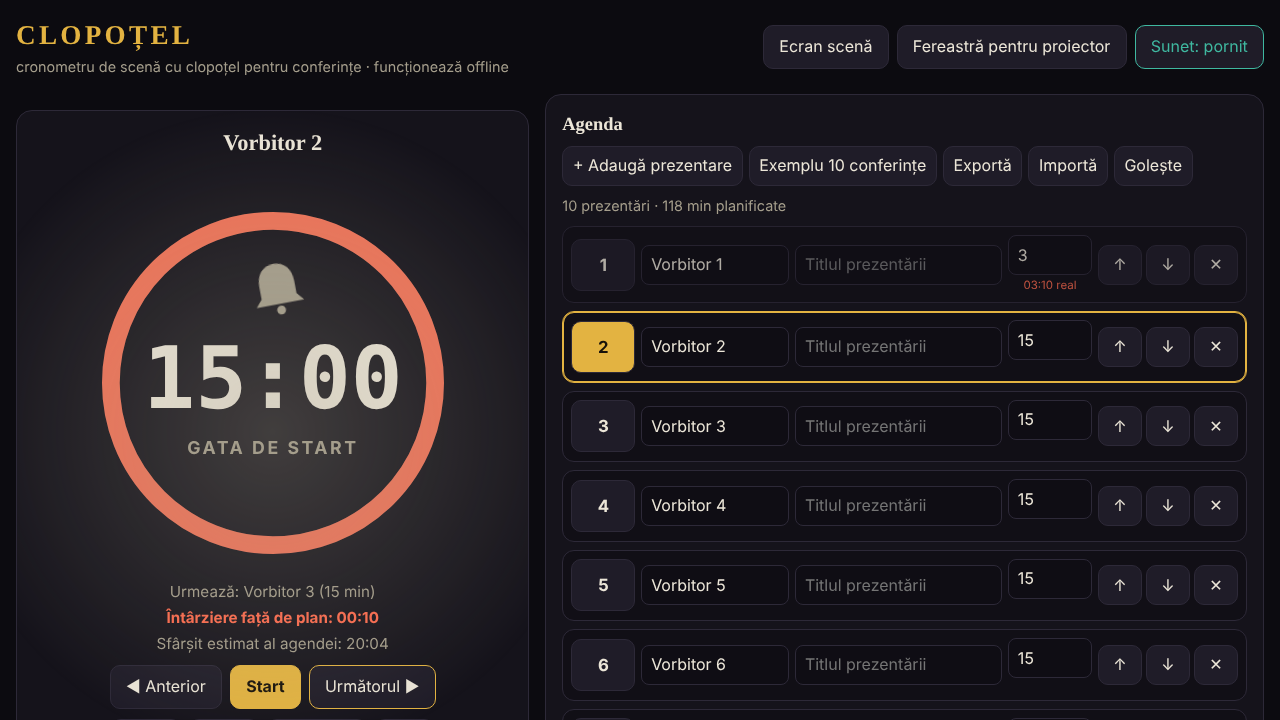
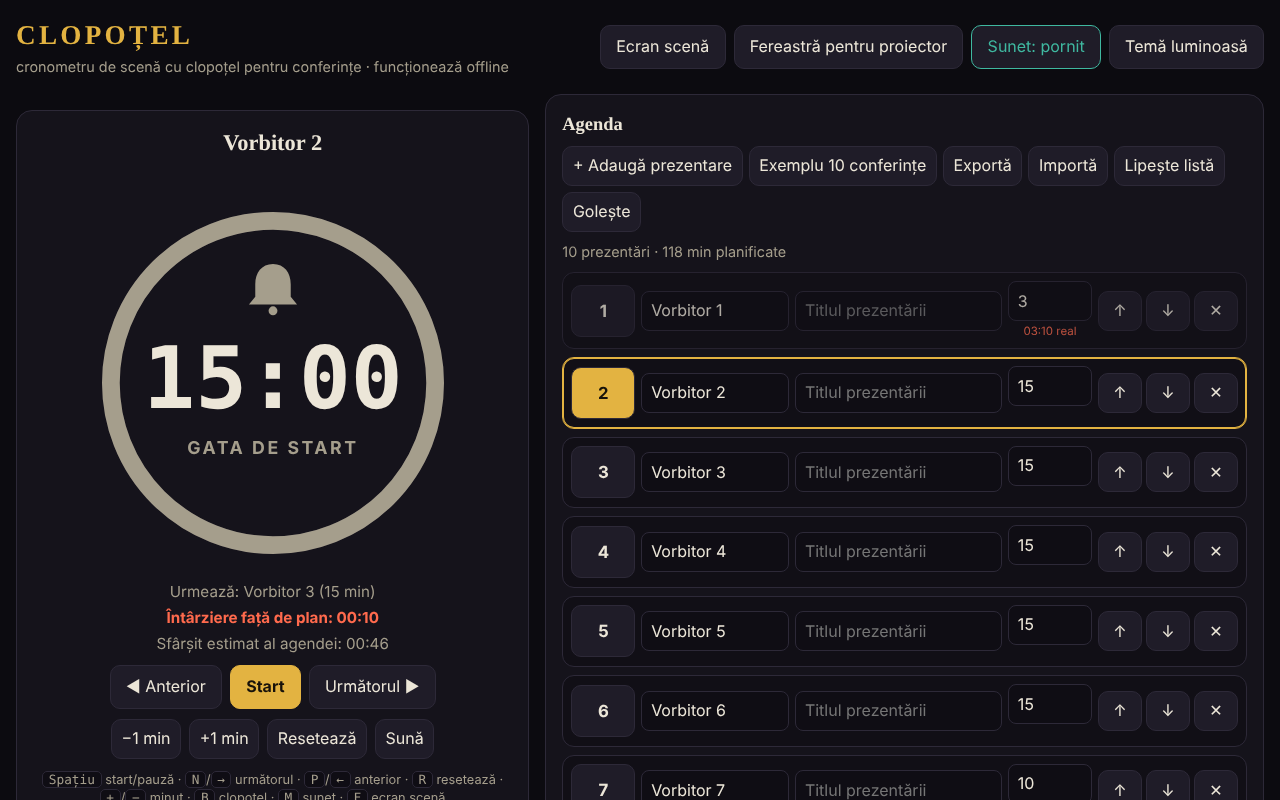
Runda 6 (11 octombrie 2026): reparații și îmbunătățiri
Claude-Session: https://claude.ai/code/session_01D2sCEb3hy3nutYexhUfQFs

diff --git a/index.html b/index.html
@@ -3,11 +3,12 @@
 <head>
 <meta charset="utf-8">
 <meta name="viewport" content="width=device-width,initial-scale=1">
-<meta http-equiv="Content-Security-Policy" content="default-src 'none'; script-src 'sha256-g+Har/yzB6hJjt88SDHgzJDg+ko0VFL84h/18yJO4B0='; style-src 'unsafe-inline'; img-src data:; media-src data: blob:; worker-src blob:; base-uri 'none'; form-action 'none'">
+<meta http-equiv="Content-Security-Policy" content="default-src 'none'; script-src 'sha256-KPVcteRl2s/AOAYdNTiBtFyDzYn+tHQ99XZXcOl1DRI='; style-src 'unsafe-inline'; img-src data:; media-src data: blob:; worker-src blob:; base-uri 'none'; form-action 'none'">
 <meta name="theme-color" content="#0c0b10">
 <title>CLOPOȚEL — cronometru de scenă</title>
 <style>
-:root{--bg:#0c0b10;--panel:#15131b;--line:#2d2938;--ink:#ece6d8;--mute:#a59e8c;--gold:#e3b341;--ver:#3fb8a0;--ember:#ff6a4d;--c:var(--mute)}
+:root{--bg:#0c0b10;--panel:#15131b;--line:#2d2938;--ink:#ece6d8;--mute:#a59e8c;--gold:#e3b341;--ver:#3fb8a0;--ember:#ff6a4d;--c:var(--mute);--btn:#1f1c28;--rowbg:#110f16;--inp:#0f0d14;--track:#2a2631;--ong:#17120a;--ong2:#3a2f10}
+:root[data-theme=light]{--bg:#f6f3ec;--panel:#fff;--line:#c4bcaa;--ink:#1d1a14;--mute:#5b5546;--gold:#8a5a00;--ver:#0b6b57;--ember:#b3261e;--btn:#ece7da;--rowbg:#faf8f2;--inp:#fff;--track:#ddd6c6;--ong:#fff;--ong2:#f3e6c8}
 *{box-sizing:border-box}
 html,body{margin:0;background:var(--bg);color:var(--ink);font:16px/1.45 system-ui,-apple-system,"Segoe UI",Roboto,sans-serif}
 body{min-height:100vh;padding:16px}
@@ -20,14 +21,14 @@ h2{font-size:1.15rem}
 main{display:grid;gap:16px;max-width:1280px;margin:0 auto}
 @media(min-width:960px){main{grid-template-columns:minmax(380px,5fr) 7fr;align-items:start}.timer{position:sticky;top:16px}}
 .card{background:var(--panel);border:1px solid var(--line);border-radius:16px;padding:16px}
-.btn{min-height:44px;min-width:44px;padding:.5rem .95rem;border:1px solid var(--line);background:#1f1c28;color:var(--ink);border-radius:10px;font:inherit;cursor:pointer}
+.btn{min-height:44px;min-width:44px;padding:.5rem .95rem;border:1px solid var(--line);background:var(--btn);color:var(--ink);border-radius:10px;font:inherit;cursor:pointer}
 .btn:hover{border-color:var(--gold)}
 .btn:focus-visible,input:focus-visible,summary:focus-visible{outline:3px solid var(--gold);outline-offset:2px}
-.btn.primary{background:var(--gold);color:#17120a;font-weight:700;border-color:var(--gold)}
+.btn.primary{background:var(--gold);color:var(--ong);font-weight:700;border-color:var(--gold)}
 .btn.small{min-height:40px;padding:.3rem .6rem}
 .btn[aria-pressed=true]{border-color:var(--ver);color:var(--ver)}
 .btn:disabled{opacity:.45;cursor:not-allowed}
-input[type=text],input[type=number],input[type=time]{min-height:40px;width:100%;background:#0f0d14;color:var(--ink);border:1px solid var(--line);border-radius:8px;padding:.35rem .55rem;font:inherit}
+input[type=text],input[type=number],input[type=time]{min-height:40px;width:100%;background:var(--inp);color:var(--ink);border:1px solid var(--line);border-radius:8px;padding:.35rem .55rem;font:inherit}
 input[type=range]{width:100%}
 label{font-size:.9rem;color:var(--mute)}
 
@@ -51,13 +52,21 @@ label{font-size:.9rem;color:var(--mute)}
 .timer[data-phase=over] .arc{animation:pu 1.4s ease-in-out infinite}
 @keyframes pu{50%{opacity:.55}}
 #lab{fill:var(--c);font-weight:700}
+.track{stroke:var(--track)}
+#t{fill:var(--ink)}
 .digits{font-family:ui-monospace,"SF Mono",Menlo,Consolas,monospace;font-variant-numeric:tabular-nums;font-weight:700}
 .meta{display:grid;gap:4px;margin:8px 0;color:var(--mute);font-size:.95rem}
 .meta b{color:var(--ink)}
 .late{color:var(--ember);font-weight:700}.early{color:var(--ver);font-weight:700}
 .ctrl{display:flex;flex-wrap:wrap;gap:8px;justify-content:center;margin-top:10px}
 .keys{margin:12px 0 0;color:var(--mute);font-size:.8rem}
-kbd{background:#0f0d14;border:1px solid var(--line);border-radius:5px;padding:0 .35rem;font-family:ui-monospace,Menlo,monospace}
+kbd{background:var(--inp);border:1px solid var(--line);border-radius:5px;padding:0 .35rem;font-family:ui-monospace,Menlo,monospace}
+#pasteBox{margin:0 0 10px;padding:10px;border:1px solid var(--line);border-radius:12px;background:var(--rowbg)}
+#pasteBox[hidden]{display:none}
+#pasteBox textarea{width:100%;min-height:120px;background:var(--inp);color:var(--ink);border:1px solid var(--line);border-radius:8px;padding:.5rem;font:inherit;font-family:ui-monospace,Menlo,Consolas,monospace;font-size:.9rem}
+#pasteBox textarea:focus-visible{outline:3px solid var(--gold);outline-offset:2px}
+#pasteBox p{margin:.3rem 0;color:var(--mute);font-size:.85rem}
+#pasteMsg{color:var(--ink)!important}
 #audioHint{display:none;margin-top:10px;padding:.5rem .7rem;border:1px solid var(--gold);border-radius:10px;color:var(--gold);font-size:.9rem}
 
 /* agendă */
@@ -65,13 +74,13 @@ kbd{background:#0f0d14;border:1px solid var(--line);border-radius:5px;padding:0 
 .atools{display:flex;flex-wrap:wrap;gap:6px}
 #sum{color:var(--mute);font-size:.9rem;margin:0 0 10px}
 #rows{list-style:none;margin:0;padding:0;display:grid;gap:8px}
-.row{display:grid;grid-template-columns:64px minmax(0,1fr) minmax(0,1.4fr) 84px auto;gap:6px;align-items:center;padding:8px;border:1px solid var(--line);border-radius:12px;background:#110f16}
+.row{display:grid;grid-template-columns:64px minmax(0,1fr) minmax(0,1.4fr) 84px auto;gap:6px;align-items:center;padding:8px;border:1px solid var(--line);border-radius:12px;background:var(--rowbg)}
 .row.current{border-color:var(--gold);box-shadow:0 0 0 1px var(--gold) inset}
 .row.done{opacity:.72}
-.sel{display:flex;flex-direction:column;align-items:center;justify-content:center;min-height:52px;padding:2px;border:1px solid var(--line);border-radius:10px;background:#1f1c28;color:var(--ink);cursor:pointer;font:inherit}
+.sel{display:flex;flex-direction:column;align-items:center;justify-content:center;min-height:52px;padding:2px;border:1px solid var(--line);border-radius:10px;background:var(--btn);color:var(--ink);cursor:pointer;font:inherit}
 .sel b{font-size:1.05rem}.sel small{color:var(--mute);font-size:.72rem}
 .sel:hover{border-color:var(--gold)}.sel:focus-visible{outline:3px solid var(--gold);outline-offset:2px}
-.row.current .sel{background:var(--gold);color:#17120a}.row.current .sel small{color:#3a2f10}
+.row.current .sel{background:var(--gold);color:var(--ong)}.row.current .sel small{color:var(--ong2)}
 .cm{display:flex;flex-direction:column;gap:2px}
 .res{font-size:.72rem;color:var(--mute);text-align:center;min-height:1em}
 .res.over{color:var(--ember)}
@@ -96,6 +105,12 @@ body.stagemode #what{font-size:clamp(1rem,3vmin,2rem)}
 body.stagemode .dial{width:min(94vw,64vh);margin:0 auto}
 body.stagemode .meta{font-size:clamp(1rem,2.6vmin,1.6rem)}
 body.display .ctrl .hide-d{display:none}
+@media print{
+ :root{--bg:#fff;--panel:#fff;--line:#999;--ink:#000;--mute:#333;--gold:#000;--btn:#fff;--rowbg:#fff;--inp:#fff;--ong:#000;--ong2:#000}
+ body{padding:0}.tools,.timer,details.card,footer,.atools,.racts,#pasteBox,.keys{display:none!important}
+ main{display:block}.card{border:0;padding:0}.row{break-inside:avoid;grid-template-columns:56px minmax(0,1fr) minmax(0,1.4fr) 60px}
+ .row input{border:0;background:transparent;padding:0}.sel{border:0;background:transparent}.row.current{box-shadow:none;border-color:#999}
+}
 @media(prefers-reduced-motion:reduce){.timer.flash::after{animation:none;opacity:.2}.bell.swing{animation:none}.timer[data-phase=over] .arc{animation:none}.arc{transition:none}}
 </style>
 </head>
@@ -110,6 +125,7 @@ body.display .ctrl .hide-d{display:none}
   <button class="btn" id="btnStage" type="button">Ecran scenă</button>
   <button class="btn" id="btnPopup" type="button">Fereastră pentru proiector</button>
   <button class="btn" id="btnSound" type="button" aria-pressed="true">Sunet: pornit</button>
+  <button class="btn" id="btnTheme" type="button">Temă luminoasă</button>
  </div>
 </header>
 
@@ -117,10 +133,10 @@ body.display .ctrl .hide-d{display:none}
  <section class="card timer" id="stage" data-phase="idle" aria-label="Cronometru">
   <div class="who"><div id="who">—</div><div id="what"></div></div>
   <svg id="dial" class="dial" viewBox="0 0 300 300" role="img" aria-label="Cadran">
-   <circle cx="150" cy="150" r="128" fill="none" stroke="#2a2631" stroke-width="14"/>
+   <circle cx="150" cy="150" r="128" fill="none" class="track" stroke-width="14"/>
    <circle id="arc" class="arc" cx="150" cy="150" r="128" fill="none" stroke-width="14" stroke-linecap="round" transform="rotate(-90 150 150)" stroke-dasharray="804.25" stroke-dashoffset="0"/>
    <g transform="translate(150 72)"><g id="bell" class="bell"><path d="M0-16c-9 0-14 7-14 16v10l-5 6h38l-5-6V0c0-9-5-16-14-16z"/><circle cx="0" cy="21" r="3.5"/></g></g>
-   <text id="t" class="digits" x="150" y="170" text-anchor="middle" font-size="68" fill="#ece6d8">00:00</text>
+   <text id="t" class="digits" x="150" y="170" text-anchor="middle" font-size="68">00:00</text>
    <text id="lab" x="150" y="206" text-anchor="middle" font-size="14" letter-spacing="2">GATA DE START</text>
   </svg>
   <div class="meta">
@@ -152,9 +168,16 @@ body.display .ctrl .hide-d{display:none}
     <button class="btn small" id="aSample" type="button">Exemplu 10 conferințe</button>
     <button class="btn small" id="aExp" type="button">Exportă</button>
     <button class="btn small" id="aImp" type="button">Importă</button>
+    <button class="btn small" id="aPaste" type="button" aria-expanded="false" aria-controls="pasteBox">Lipește listă</button>
     <button class="btn small" id="aClr" type="button">Golește</button>
-    <input type="file" id="aFile" accept="application/json,.json" hidden>
+    <input type="file" id="aFile" accept="application/json,.json,.csv,.txt,text/plain,text/csv" hidden>
    </div>
+  </div>
+  <div id="pasteBox" hidden>
+   <label for="pasteTa">Lipește agenda, câte o prezentare pe rând: <code>Vorbitor | Titlu | minute</code> (separatori: <code>|</code>, <code>;</code> sau tab; titlul și minutele sunt opționale; fără minute se folosesc 10).</label>
+   <textarea id="pasteTa" spellcheck="false" placeholder="Ana Ionescu | Deschidere | 5&#10;Mihai Pop | Inteligența artificială în educație | 20&#10;Elena Dumitru 15"></textarea>
+   <div class="atools"><button class="btn small primary" id="pAdd" type="button">Adaugă la agendă</button> <button class="btn small" id="pRep" type="button">Înlocuiește agenda</button> <button class="btn small" id="pClose" type="button">Închide</button></div>
+   <p id="pasteMsg" role="status"></p>
   </div>
   <p id="sum"></p>
   <ol id="rows"></ol>
@@ -180,7 +203,7 @@ body.display .ctrl .hide-d{display:none}
 'use strict';
 const $=id=>document.getElementById(id);
 const isDisplay=location.hash==='#scena';
-const K={ag:'clopotel.agenda.v1',st:'clopotel.settings.v1',rt:'clopotel.runtime.v1',snd:'clopotel.sound.'+(isDisplay?'d':'c')};
+const K={ag:'clopotel.agenda.v1',st:'clopotel.settings.v1',rt:'clopotel.runtime.v1',snd:'clopotel.sound.'+(isDisplay?'d':'c'),th:'clopotel.theme.v1'};
 const DEF={warn:120,repeat:30,volume:0.8,auto:false,start:''};
 const clamp=(x,a,b)=>Math.min(b,Math.max(a,x));
 const pad=n=>String(n).padStart(2,'0');
@@ -408,9 +431,50 @@ function exportJson(){
   const a=document.createElement('a');a.href=URL.createObjectURL(new Blob([data],{type:'application/json'}));
   a.download='agenda-clopotel.json';document.body.appendChild(a);a.click();a.remove();setTimeout(()=>URL.revokeObjectURL(a.href),2000);
 }
+/* ---------- import din text (lipit sau fișier .csv/.txt) ---------- */
+function parseAgendaText(txt){
+  const items=[],notes=[];let skipped=0;
+  String(txt).replace(/^\uFEFF/,'').split(/\r?\n/).forEach((raw,i)=>{
+    const ln=raw.trim();if(!ln||ln[0]==='#')return;
+    let f;
+    if(/[\t|;]/.test(ln))f=ln.split(/\t|\||;/).map(x=>x.trim());
+    else{const m=/^(.*?)[\s,\-–—:]+\(?(\d{1,3})(?:\s*(?:min(?:ute)?|m|'))?\)?$/i.exec(ln);f=m&&m[1]?[m[1],m[2]]:[ln]}
+    const isNum=x=>/^\d{1,4}(?:[.,]\d+)?\s*(?:min(?:ute)?|m|')?$/i.test(x||'');
+    let min=null;
+    if(f.length>1&&isNum(f[f.length-1])){min=parseFloat(f.pop().replace(',','.'))}
+    else if(f.length>1&&isNum(f[0])){min=parseFloat(f.shift().replace(',','.'))}
+    f=f.filter((x,j)=>x!==''||j<2);
+    if(items.length===0&&min==null&&/^(vorbitor|speaker|nume|name)\b/i.test(f[0]||'')&&f.length>1){return}
+    const speaker=(f[0]||'').slice(0,120),title=f.slice(1).join(' — ').slice(0,240);
+    if(!speaker&&!title){skipped++;return}
+    if(min==null)min=10;
+    const r=clamp(Math.round(min),1,600);
+    if(r!==Math.round(min)||!(min>=1)){notes.push('rândul '+(i+1)+': minutele au fost aduse la '+r)}
+    items.push({id:newId(),speaker,title,min:r});
+  });
+  return {items,skipped,notes};
+}
+function pasteMsg(t){$('pasteMsg').textContent=t}
+function applyPaste(replace){
+  const r=parseAgendaText($('pasteTa').value);
+  if(!r.items.length){pasteMsg('Nu am găsit nicio prezentare în text. Format: Vorbitor | Titlu | minute, câte una pe rând.');$('pasteTa').focus();return}
+  if(replace){if(agenda.length&&!confirm('Înlocuiești agenda curentă cu cele '+r.items.length+' prezentări?'))return;replaceAgenda(r.items)}
+  else{agenda=agenda.concat(r.items);persistAg();renderAgenda();renderTimer(true)}
+  pasteMsg((replace?'Agenda a fost înlocuită: ':'Adăugate: ')+r.items.length+' prezentări'+(r.skipped?' ('+r.skipped+' rânduri goale sărite)':'')+(r.notes.length?'. Atenție: '+r.notes.slice(0,3).join('; ')+(r.notes.length>3?'…':''):'')+'.');
+  $('pasteTa').value='';
+}
+function setPasteOpen(on){
+  $('pasteBox').hidden=!on;$('aPaste').setAttribute('aria-expanded',on?'true':'false');
+  if(on)$('pasteTa').focus();else $('aPaste').focus();
+}
 function importJson(file){
   const fr=new FileReader();
   fr.onload=()=>{
+    if(!/\.json$/i.test(file.name)&&!/^\s*[\[{]/.test(fr.result)){
+      const r=parseAgendaText(fr.result);
+      if(!r.items.length){alert('Nu am găsit nicio prezentare în fișier. Format text: Vorbitor | Titlu | minute, câte una pe rând.');return}
+      replaceAgenda(r.items);return;
+    }
     try{
       const d=JSON.parse(fr.result);
       const list=sanitizeAg(Array.isArray(d)?d:d.agenda);
@@ -512,6 +576,12 @@ function bindSettings(){
   $('tWarn').addEventListener('click',()=>{audio();ring('warn')});
   $('tEnd').addEventListener('click',()=>{audio();ring('end')});
 }
+function applyTheme(t){
+  document.documentElement.setAttribute('data-theme',t==='light'?'light':'dark');
+  const b=$('btnTheme');b.textContent=t==='light'?'Temă întunecată':'Temă luminoasă';
+  const m=document.querySelector('meta[name=theme-color]');if(m)m.setAttribute('content',t==='light'?'#f6f3ec':'#0c0b10');
+}
+function toggleTheme(){const t=document.documentElement.getAttribute('data-theme')==='light'?'dark':'light';save(K.th,t);applyTheme(t)}
 function renderSound(){
   const b=$('btnSound');b.textContent='Sunet: '+(soundOn?'pornit':'oprit');b.setAttribute('aria-pressed',soundOn?'true':'false');
 }
@@ -535,6 +605,12 @@ document.addEventListener('fullscreenchange',()=>{if(!document.fullscreenElement
 function init(){
   if(isDisplay){document.body.classList.add('display');document.body.classList.add('stagemode');document.title='CLOPOȚEL — scenă'}
   syncSettings();bindSettings();renderSound();renderAgenda();
+  applyTheme(load(K.th,'dark'));$('btnTheme').addEventListener('click',toggleTheme);
+  $('aPaste').addEventListener('click',()=>setPasteOpen($('pasteBox').hidden));
+  $('pClose').addEventListener('click',()=>setPasteOpen(false));
+  $('pAdd').addEventListener('click',()=>applyPaste(false));
+  $('pRep').addEventListener('click',()=>applyPaste(true));
+  $('pasteTa').addEventListener('keydown',e=>{if(e.key==='Escape'){e.preventDefault();setPasteOpen(false)}else if(e.key==='Enter'&&(e.ctrlKey||e.metaKey)){e.preventDefault();applyPaste(false)}});
   $('bGo').addEventListener('click',toggle);
   $('bNext').addEventListener('click',next);
   $('bPrev').addEventListener('click',prev);
@@ -579,6 +655,7 @@ function init(){
     if(!isDisplay)return;
     if(e.key===K.ag){agenda=sanitizeAg(load(K.ag,null))||agenda;rt.idx=clamp(rt.idx,0,Math.max(0,agenda.length-1))}
     else if(e.key===K.st){settings=normSettings(load(K.st,{}))}
+    else if(e.key===K.th){applyTheme(load(K.th,'dark'));return}
     else if(e.key===K.rt){const n=load(K.rt,null);if(n&&typeof n==='object'){rt=normRt(Object.assign({},rt,n));if(['idle','running','paused','finished'].indexOf(rt.status)<0)rt.status='idle';if(!rt.results||typeof rt.results!=='object')rt.results={};rt.idx=clamp(Math.round(rt.idx)||0,0,Math.max(0,agenda.length-1))}}
     else return;
     renderTimer(true);

diff --git a/README.md b/README.md
@@ -10,7 +10,7 @@ Un singur fișier HTML, fără dependențe externe, funcționează complet offli
 ## Utilizare
 
 1. Deschide `index.html` în browser (sau pagina publicată cu GitHub Pages: **https://chiuta.github.io/Clopotel/**).
-2. Completează agenda: vorbitor, titlu, minute alocate. Poți muta, șterge, exporta și importa agenda (JSON).
+2. Completează agenda: vorbitor, titlu, minute alocate. Poți muta, șterge, exporta și importa agenda (JSON) sau o poți lipi ca listă text (**Lipește listă**: `Vorbitor | Titlu | minute`, câte o prezentare pe rând; separatori `|`, `;` sau tab; fără minute se folosesc 10). Fișierele `.csv`/`.txt` cu același format se pot importa la fel.
 3. Apasă **Start**. Clopoțelul sună la avertizare (implicit cu 2 minute înainte), la final și periodic în depășire.
 4. **Ecran scenă** pune cronometrul pe tot ecranul; **Fereastră pentru proiector** deschide o a doua fereastră sincronizată
    (același browser, același calculator) pe care o muți pe ecranul sălii.
@@ -30,6 +30,7 @@ Un singur fișier HTML, fără dependențe externe, funcționează complet offli
 
 ## Note
 
+- Butonul **Temă luminoasă/întunecată** schimbă tema (implicit întunecată, potrivită pentru scenă); alegerea se păstrează în browser. Tipărirea (Ctrl+P) produce doar agenda, în alb-negru.
 - Browserul blochează sunetul până la primul clic: apasă Start sau orice buton înainte de eveniment.
 - Datele (agenda, setările, starea cronometrului) se păstrează în browser (`localStorage`); după o reîncărcare, cronometrul continuă.
 - Ecranul rămâne aprins cât timp cronometrul rulează (Wake Lock, unde browserul îl suportă).
@@ -39,6 +40,10 @@ Un singur fișier HTML, fără dependențe externe, funcționează complet offli
 Settings → Pages → Source: *Deploy from a branch* → `main` / `(root)`. Fișierul `.nojekyll` este deja inclus.
 
 ## Istoric / Changelog
+
+### 11.10.2026 (a doua actualizare) — 11 octombrie 2026
+- Import agendă din text lipit sau din fișier `.csv`/`.txt` (rânduri `Vorbitor | Titlu | minute`), cu mesaj despre rândurile importate sau ajustate.
+- Temă luminoasă (contrast verificat cu axe) și stil de tipărire pentru agendă; fereastra pentru proiector urmează tema aleasă.
 
 ### 11.10.2026 — 11 octombrie 2026
 - Fereastra pentru proiector: dacă browserul blochează fereastra pop-up, apare acum un mesaj clar cu pașii de urmat (în loc de nicio reacție).
